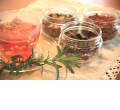
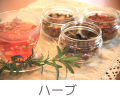
icon修正

diff --git a/css/main.css b/css/main.css
@@ -254,48 +254,28 @@ div.search-form
     border: 0px;
     position:relative;
     top:8px;
-    left:38px;
-}
-#headImage1s
-{
-    position:relative;
-    left:450px;
+    left:78px;
 }
 #headImage2
 {
     border: 0px;
     position:relative;
     top:8px;
-    left:44px;
-}
-#headImage2s
-{
-    position:relative;
-    left:515px;
+    left:82px;
 }
 #headImage3
 {
     border: 0px;
     position:relative;
     top:8px;
-    left:50px;
-}
-#headImage3s
-{
-    position:relative;
-    left:550px;
+    left:88px;
 }
 #headImage4
 {
     border: 0px;
     position:relative;
     top:8px;
-    left:56px;
-}
-#headImage4s
-{
-    position:relative;
-    left:550px;
+    left:94px;
 }
 
 .news .summary

diff --git a/protected/views/layouts/main.php b/protected/views/layouts/main.php
@@ -29,21 +29,12 @@ $baseUrl=$app->request->baseUrl;
 $imageUrl=$baseUrl.'/systemImages/';
 ?>
 	<div id="header" style="line-height:0px;">
-<?php echo CHtml::link(CHtml::image($imageUrl.'morning-dew-title-dark.png','', array('id'=>'titleImage')),preg_replace('/(admin|index)\.php/', '', $this->createUrl('/')), array('id'=>'titleImage')); ?>
 
-<?php echo CHtml::link(CHtml::image($imageUrl.'icon1.png','image1',array('id'=>'headImage1')),array('/article/show', 'id'=>2), array('id'=>'headImage1')); ?>
-<?php echo CHtml::link(CHtml::image($imageUrl.'icon2.png','image2',array('id'=>'headImage2')),array('/article/show', 'id'=>3), array('id'=>'headImage2')); ?>
-<?php echo CHtml::link(CHtml::image($imageUrl.'icon3.png','image3',array('id'=>'headImage3')),array('/article/show', 'id'=>4), array('id'=>'headImage3')); ?>
-<?php echo CHtml::link(CHtml::image($imageUrl.'icon4.png','image4',array('id'=>'headImage4')),array('/article/show', 'id'=>5), array('id'=>'headImage4')); ?>
-
-<div>
-  <br />
-  <span id="headImage1s">アロマテラピー</span>
-  <span id="headImage2s">ハーブ</span>
-  <span id="headImage3s">バッチフラワーレメディ</span>
-  <span id="headImage4s">ホリスティックケア</span>
-</div>
-
+    <?php echo CHtml::link(CHtml::image($imageUrl.'morning-dew-title-dark.png','', array('id'=>'titleImage')),preg_replace('/(admin|index)\.php/', '', $this->createUrl('/')), array('id'=>'titleImage')); ?>
+    <?php echo CHtml::link(CHtml::image($imageUrl.'icon1.png','image1',array('id'=>'headImage1')),array('/article/show', 'id'=>2)); ?>
+    <?php echo CHtml::link(CHtml::image($imageUrl.'icon2.png','image2',array('id'=>'headImage2')),array('/article/show', 'id'=>3)); ?>
+    <?php echo CHtml::link(CHtml::image($imageUrl.'icon3.png','image3',array('id'=>'headImage3')),array('/article/show', 'id'=>4)); ?>
+    <?php echo CHtml::link(CHtml::image($imageUrl.'icon4.png','image4',array('id'=>'headImage4')),array('/article/show', 'id'=>5)); ?>
 
 	</div><!-- header -->
 
